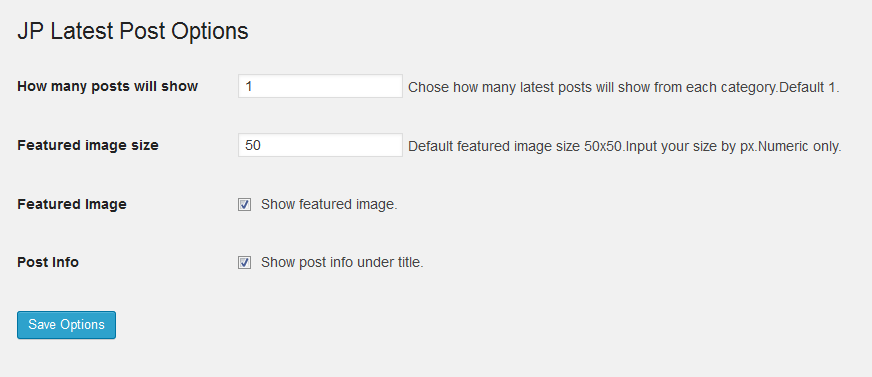
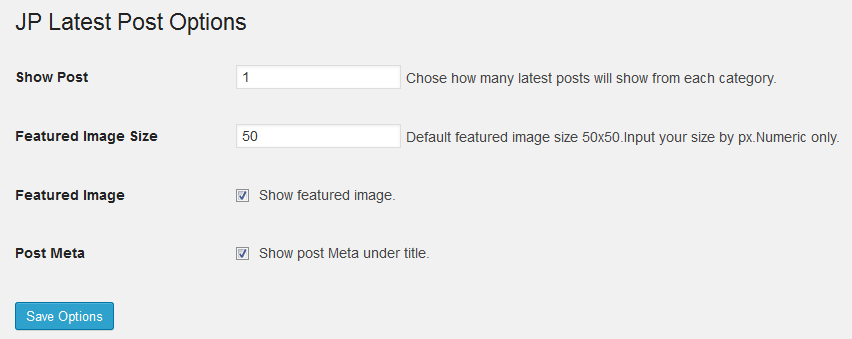
Fixed some isues
git-svn-id: https://plugins.svn.wordpress.org/jp-latest-posts-shortcode/trunk@1180798 b8457f37-d9ea-0310-8a92-e5e31aec5664

diff --git a/jp-latest-posts-shortcode.php b/jp-latest-posts-shortcode.php
@@ -1,61 +1,29 @@
 <?php
 /**
  * Plugin Name: JP Latest Posts Shortcode
- * Plugin URI: http://www.skjoybd.com/plugins/latest-posts-shortcode
- * Description: This is a simple plugin for listing latest posts from your blog.Use shortcode [latest-posts] to post or page.Then see,a list of latest posts will appear to your desired post or page.
+ * Plugin URI: http://skjoy.info/plugins/jp-latest-posts-shortcode.html
+ * Description: This is a simple plugin for listing latest posts from your blog.Use shortcode [latest-posts] to post or page.Then see,a list of latest posts will appear to your desired post or page.This plugin also contains a widget for showing latest post in widget/sidebar area.Enjoy...
  * Version: 1.0
  * Author: Skjoy
- * Author URI: http://www.skjoybd.com
+ * Author URI: http://skioy.info
  * Requires at least: 3.0
- * Tested Up to: 3.8
+ * Tested Up to: 4.1.1
  * Stable Tag: 2.0
  * License: GPL v2
  * Shortname: lp or lp_
  */
 
 include_once( 'lp-options.php' );
+
+/* Adding Plugin custm CSS file */
+wp_enqueue_style('jp-lps-css', plugin_dir_url(__FILE__).'css/style.css');
  
  // Creating main function for latest posts
  
 function jp_latest_posts_shortcode() { ?>
-	<!-- Necessary style for posts list -->
-	<style type="text/css">
-		.jp-latest-posts {
-			list-style: none;
-			overflow: hidden;
-			display: block;
-		}
-		.jp-latest-posts li {
-			border-bottom: 1px solid #E6E6E6;
-			overflow: hidden;
-			padding: 5px 0px;
-			margin: 0px 3px;
-		}
-		.jp-latest-posts li:last-child {
-			border-bottom: 0px;
-		}
-		.jp-latest-posts li img {
-			float: left;
-			margin: 4px 4px 4px 4px;
-			padding: 2px;
-			border: 1px solid #E6E6E6;
-		}
-		.jp-latest-posts li h5 {
-			font-weight: normal;
-			font-size: 14px;
-			margin-top: 0px;
-			line-height: 21px;
-			text-align: left;
-		}
-		.jp-latest-posts li h5 a {
-			color: #04A33C;
-		}
-		.jp-latest-posts li p {
-			font-size: 12px;
-			color: #9A9A9A;
-		}
-	</style>
+	
 	<!-- Creating Markup for latest posts -->
+	
 	<ul class="jp-latest-posts">
 		<?php  
 			$allcats = get_categories('child_of=0'); 
@@ -65,6 +33,7 @@ function jp_latest_posts_shortcode() { ?>
 				'category__in' => array($cat->term_id)
 				);
 			$customInCatQuery = new WP_Query($args);
+				
 				if ($customInCatQuery->have_posts()) :
 				while ($customInCatQuery->have_posts()) : $customInCatQuery->the_post(); ?>
 				<li>
@@ -72,12 +41,24 @@ function jp_latest_posts_shortcode() { ?>
 						global $lp_options;
 						$lp_settings = get_option( 'lp_options', $lp_options );
 					?>
-					<?php if( $lp_settings['featured_image'] ) : ?>
-					<?php the_post_thumbnail( array( $lp_settings['feat_img_size'],$lp_settings['feat_img_size'] ) ); ?>
+					
+					<?php
+						if( $lp_settings['featured_image'] ) : 
+					?>
+					<?php 
+						the_post_thumbnail( array( $lp_settings['feat_img_size'],
+						$lp_settings['feat_img_size'] ) ); 
+					?>
 					<?php endif; ?>
-					<h5><a href="<?php the_permalink(); ?>" title="<?php the_title(); ?>"><?php the_title(); ?></a></h5>
+					
+					<h2>
+						<a href="<?php the_permalink(); ?>" title="<?php the_title(); ?>"><?php the_title(); ?></a>
+					</h2>
+					
 					<?php if( $lp_settings['post_info'] ) : ?>
-					<p>Posted by <?php the_author_posts_link(); ?> | <?php the_time('F jS, Y') ?> | <?php the_category(', '); ?> | <?php comments_popup_link('No Comments &#187;', '1 Comment &#187;', '% Comments &#187;'); ?> <?php edit_post_link('| Edit'); ?></p>
+					<p>
+						Posted by <?php the_author_posts_link(); ?> | <?php the_time('F jS, Y') ?> | <?php the_category(', '); ?> | <?php comments_popup_link('No Comments &#187;', '1 Comment &#187;', '% Comments &#187;'); ?> <?php edit_post_link('| Edit'); ?>
+					</p>
 					<?php endif; ?>
 				</li>
 		<?php endwhile; ?>
@@ -99,57 +80,57 @@ add_shortcode('latest-posts','jp_latest_posts_shortcode');
 // Creating the widget 
 class jlp_widget extends WP_Widget {
 
-function __construct() {
-parent::__construct(
-// Base ID of your widget
-'jlp_widget', 
+	function __construct() {
+		parent::__construct(
+		// Base ID of your widget
+		'jlp_widget', 
 
-// Widget name will appear in UI
-__('JP Latest Posts Widget', 'jlp_widget_domain'), 
+		// Widget name will appear in UI
+		__('JP Latest Posts Widget', 'jlp_widget_domain'), 
 
-// Widget description
-array( 'description' => __( 'A simple widget for listing latest post from your blog', 'jlp_widget_domain' ), ) 
-);
-}
+		// Widget description
+		array( 'description' => __( 'A simple widget for listing latest post from your blog', 'jlp_widget_domain' ), ) 
+		);
+	}
 
-// Creating widget front-end
-// This is where the action happens
-public function widget( $args, $instance ) {
-$title = apply_filters( 'widget_title', $instance['title'] );
-// before and after widget arguments are defined by themes
-echo $args['before_widget'];
-if ( ! empty( $title ) )
-echo $args['before_title'] . $title . $args['after_title'];
+	// Creating widget front-end
+	// This is where the action happens
+	public function widget( $args, $instance ) {
+	$title = apply_filters( 'widget_title', $instance['title'] );
+	// before and after widget arguments are defined by themes
+	echo $args['before_widget'];
+	if ( ! empty( $title ) )
+	echo $args['before_title'] . $title . $args['after_title'];
 
-// This is where you run the code and display the output
+	// This is where you run the code and display the output
 
-jp_latest_posts_shortcode();
-echo $args['after_widget'];
-}
+	jp_latest_posts_shortcode();
+	echo $args['after_widget'];
+	}
+			
+	// Widget Backend 
+	public function form( $instance ) {
+		if ( isset( $instance[ 'title' ] ) ) {
+		$title = $instance[ 'title' ];
+		}
+		else {
+		$title = __( 'Latest Posts', 'jlp_widget_domain' );
+		}
+		// Widget admin form
+		?>
+		<p>
+		<label for="<?php echo $this->get_field_id( 'title' ); ?>"><?php _e( 'Title:' ); ?></label> 
+		<input class="widefat" id="<?php echo $this->get_field_id( 'title' ); ?>" name="<?php echo $this->get_field_name( 'title' ); ?>" type="text" value="<?php echo esc_attr( $title ); ?>" />
+		</p>
+		<?php 
+	}
 		
-// Widget Backend 
-public function form( $instance ) {
-if ( isset( $instance[ 'title' ] ) ) {
-$title = $instance[ 'title' ];
-}
-else {
-$title = __( 'Latest Posts', 'jlp_widget_domain' );
-}
-// Widget admin form
-?>
-<p>
-<label for="<?php echo $this->get_field_id( 'title' ); ?>"><?php _e( 'Title:' ); ?></label> 
-<input class="widefat" id="<?php echo $this->get_field_id( 'title' ); ?>" name="<?php echo $this->get_field_name( 'title' ); ?>" type="text" value="<?php echo esc_attr( $title ); ?>" />
-</p>
-<?php 
-}
-	
-// Updating widget replacing old instances with new
-public function update( $new_instance, $old_instance ) {
-$instance = array();
-$instance['title'] = ( ! empty( $new_instance['title'] ) ) ? strip_tags( $new_instance['title'] ) : '';
-return $instance;
-}
+	// Updating widget replacing old instances with new
+	public function update( $new_instance, $old_instance ) {
+		$instance = array();
+		$instance['title'] = ( ! empty( $new_instance['title'] ) ) ? strip_tags( $new_instance['title'] ) : '';
+		return $instance;
+	}
 } // Class jlp_widget ends here
 
 // Register and load the widget

diff --git a/lp-options.php b/lp-options.php
@@ -52,14 +52,14 @@ function lp_theme_options_page() {
 
 	<table class="form-table"><!-- Grab a hot cup of coffee, yes we're using tables! -->
 	
-	<tr valign="top"><th scope="row"><label for="posts_count">How many posts will show</label></th>
+	<tr valign="top"><th scope="row"><label for="posts_count">Show Post</label></th>
 	<td>
 	<input id="posts_count" name="lp_options[posts_count]" type="text" value="<?php  esc_attr_e($settings['posts_count']); ?>" />
-	<label for="posts_count">Chose how many latest posts will show from each category.Default 1.</label>
+	<label for="posts_count">Chose how many latest posts will show from each category.</label>
 	</td>
 	</tr>
 	
-	<tr valign="top"><th scope="row"><label for="feat_img_size">Featured image size</label></th>
+	<tr valign="top"><th scope="row"><label for="feat_img_size">Featured Image Size</label></th>
 	<td>
 	<input id="feat_img_size" name="lp_options[feat_img_size]" type="text" value="<?php  esc_attr_e($settings['feat_img_size']); ?>" />
 	<label for="feat_img_size">Default featured image size 50x50.Input your size by px.Numeric only.</label>
@@ -73,10 +73,10 @@ function lp_theme_options_page() {
 	</td>
 	</tr>
 	
-	<tr valign="top"><th scope="row">Post Info</th>
+	<tr valign="top"><th scope="row">Post Meta</th>
 	<td>
 	<input type="checkbox" id="post_info" name="lp_options[post_info]" value="1" <?php checked( true, $settings['post_info'] ); ?> />
-	<label for="post_info">Show post info under title.</label>
+	<label for="post_info">Show post Meta under title.</label>
 	</td>
 	</tr>
 
